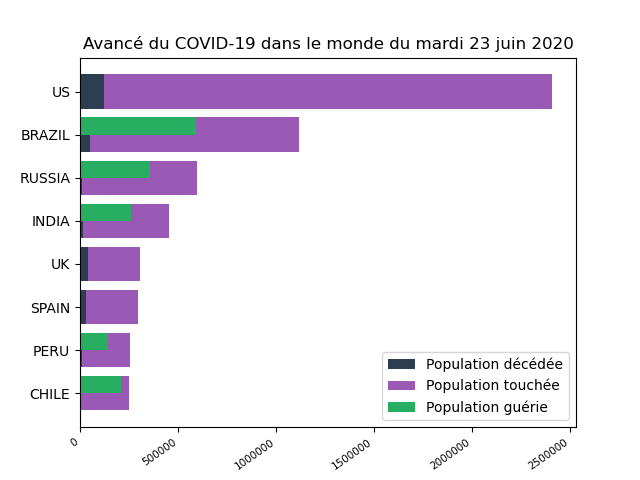
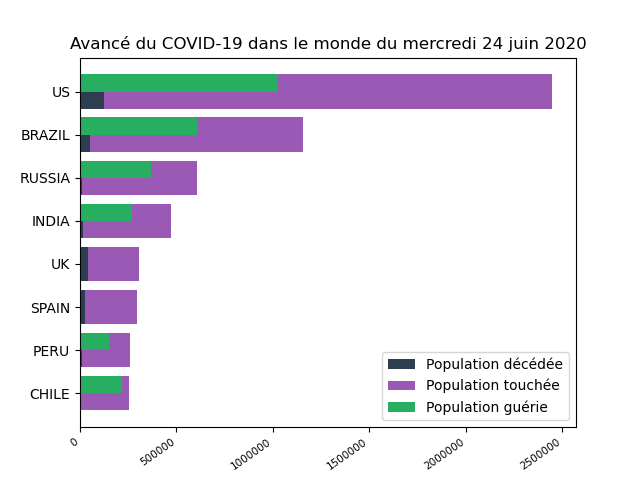
update data

diff --git a/main.py b/main.py
@@ -102,7 +102,7 @@ def makeGraph():
     for x in range(0, nbrCountries):
         indexRecovered = str(totalRecovered[x]).find('<td style="font-weight: bold; text-align:right">')
         totalRecovered[x] = str(totalRecovered[x]).replace("N/A", "0,000")
-        totalRecoveredCountries.append(int(re.findall(r"[\d]{1,5},[\d]{3}|[\d]{1,3}|[\d]{1,3},[\d]{3},[\d]{3}", str(
+        totalRecoveredCountries.append(int(re.findall(r"[\d]{1,2},[\d]{3},[\d]{3}|[\d]{1,5},[\d]{3}|[\d]{1,3}", str(
             totalRecovered[x])[indexRecovered+48:indexRecovered+70])[0].replace(",", "")))
 
     for x in range(0, nbrCountries):
